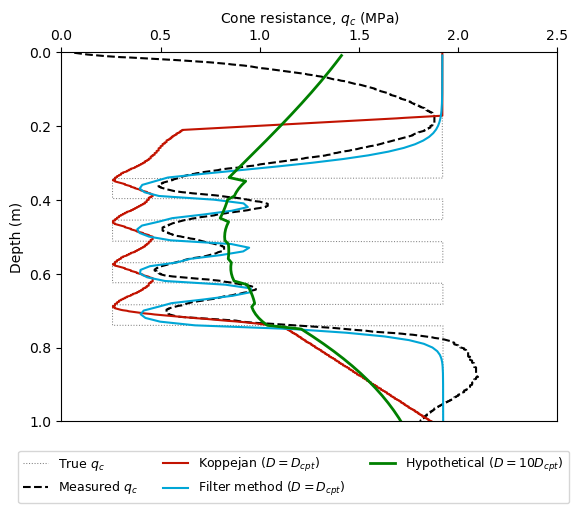
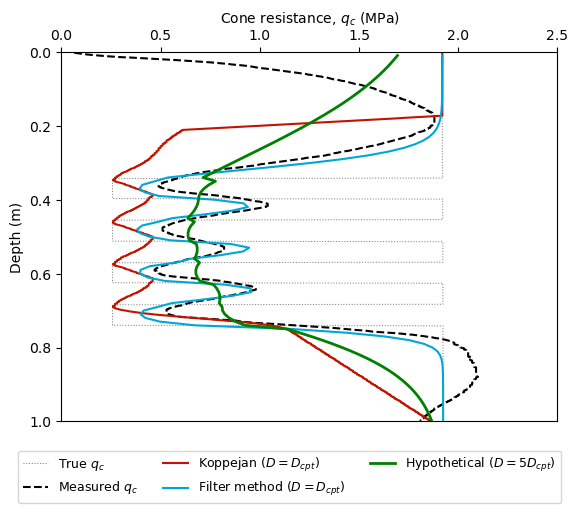
Built site for gh-pages

diff --git a/notes/4-2_mechanisms-sand.html b/notes/4-2_mechanisms-sand.html
@@ -752,50 +752,53 @@ Figure&nbsp;5: Calibration chamber set-up by <span class="citation" data-cites="
 <p>You can also check this with the code below. It also includes a hypothetical scenario of a penetrometer with a diameter of <code>5*d_cpt</code>, whilst also assuming that the filter method by <span class="citation" data-cites="deBoorderSW22">de Boorder, de Lange, and Gavin (<a href="#ref-deBoorderSW22" role="doc-biblioref">2022</a>)</span> is the ground truth.</p>
 <p>Since this hypothetical penetrometer is much larger than the original CPT, it can barely detect the individual contribution of each weak layer. Instead it virtually spatially averages the whole unit, sensing a cone resistance of just under 1 MPa.</p>
 <p>As an aside: since the stress conditions in a calibration chamber are much different to real-life conditions, the measured cone resistance are also not “typical” cone resistances.</p>
-<div id="b0e2f8a1-69b1-484e-93c6-840f4f954e3f" class="cell" data-tags="[]" data-execution_count="5">
+<div id="b0e2f8a1-69b1-484e-93c6-840f4f954e3f" class="cell" data-tags="[]" data-execution_count="2">
 <details class="code-fold">
 <summary>Show the code</summary>
 <div class="sourceCode cell-code" id="cb1"><pre class="sourceCode python code-with-copy"><code class="sourceCode python"><span id="cb1-1"><a href="#cb1-1" aria-hidden="true" tabindex="-1"></a><span class="im">import</span> pandas <span class="im">as</span> pd, numpy <span class="im">as</span> np</span>
 <span id="cb1-2"><a href="#cb1-2" aria-hidden="true" tabindex="-1"></a><span class="im">import</span> matplotlib.pyplot <span class="im">as</span> plt</span>
 <span id="cb1-3"><a href="#cb1-3" aria-hidden="true" tabindex="-1"></a><span class="im">import</span> sys</span>
-<span id="cb1-4"><a href="#cb1-4" aria-hidden="true" tabindex="-1"></a>sys.path.append(<span class="st">".."</span>)</span>
-<span id="cb1-5"><a href="#cb1-5" aria-hidden="true" tabindex="-1"></a><span class="im">from</span> utils <span class="im">import</span> averaging_methods</span>
-<span id="cb1-6"><a href="#cb1-6" aria-hidden="true" tabindex="-1"></a></span>
-<span id="cb1-7"><a href="#cb1-7" aria-hidden="true" tabindex="-1"></a>fig <span class="op">=</span> plt.figure()</span>
-<span id="cb1-8"><a href="#cb1-8" aria-hidden="true" tabindex="-1"></a>ax <span class="op">=</span> fig.gca()</span>
+<span id="cb1-4"><a href="#cb1-4" aria-hidden="true" tabindex="-1"></a></span>
+<span id="cb1-5"><a href="#cb1-5" aria-hidden="true" tabindex="-1"></a><span class="co"># sys.path.append("..")</span></span>
+<span id="cb1-6"><a href="#cb1-6" aria-hidden="true" tabindex="-1"></a><span class="co"># !pip install git+https://github.com/triaduct/offshoregeotechnics.git@main # Use this code to add offshoregeotechnics to your Python library </span></span>
+<span id="cb1-7"><a href="#cb1-7" aria-hidden="true" tabindex="-1"></a></span>
+<span id="cb1-8"><a href="#cb1-8" aria-hidden="true" tabindex="-1"></a><span class="im">from</span> utils <span class="im">import</span> averaging_methods</span>
 <span id="cb1-9"><a href="#cb1-9" aria-hidden="true" tabindex="-1"></a></span>
-<span id="cb1-10"><a href="#cb1-10" aria-hidden="true" tabindex="-1"></a><span class="co"># Measurements from calibration chamber as well as existing calcs (to reduce computational time) are stored in calib-chamber.csv</span></span>
-<span id="cb1-11"><a href="#cb1-11" aria-hidden="true" tabindex="-1"></a>cpt <span class="op">=</span> pd.read_csv(<span class="st">"data/calib-chamber.csv"</span>)</span>
-<span id="cb1-12"><a href="#cb1-12" aria-hidden="true" tabindex="-1"></a>d_cpt <span class="op">=</span> <span class="fl">36E-3</span> <span class="co"># Original diameter of the CPT cone = 36mm</span></span>
-<span id="cb1-13"><a href="#cb1-13" aria-hidden="true" tabindex="-1"></a>ax.plot(cpt.qc,cpt.z<span class="op">*-</span><span class="dv">1</span>,label<span class="op">=</span><span class="st">"True $q_c$"</span>,lw<span class="op">=</span><span class="fl">0.75</span>,c<span class="op">=</span><span class="st">"gray"</span>,ls<span class="op">=</span><span class="st">":"</span>)       <span class="co"># True qc value if layer was infinitely thick</span></span>
-<span id="cb1-14"><a href="#cb1-14" aria-hidden="true" tabindex="-1"></a>ax.plot(cpt.qc_meas,cpt.z_meas<span class="op">*-</span><span class="dv">1</span>,label<span class="op">=</span><span class="st">"Measured $q_c$"</span>,c<span class="op">=</span><span class="st">"k"</span>,ls<span class="op">=</span><span class="st">"--"</span>)   <span class="co"># Measured by a CPT with diameter D_cpt</span></span>
-<span id="cb1-15"><a href="#cb1-15" aria-hidden="true" tabindex="-1"></a>ax.plot(cpt.qc_koppejan,cpt.z_koppejan<span class="op">*-</span><span class="dv">1</span>,label<span class="op">=</span><span class="st">"Koppejan ($D=D_</span><span class="sc">{cpt}</span><span class="st">$)"</span>,c<span class="op">=</span><span class="st">"#C21301"</span>)  <span class="co"># Koppejan method (D = D_cpt)</span></span>
-<span id="cb1-16"><a href="#cb1-16" aria-hidden="true" tabindex="-1"></a>ax.plot(cpt.qc_filter,cpt.z_filter<span class="op">*-</span><span class="dv">1</span>,label<span class="op">=</span><span class="st">"Filter method ($D=D_</span><span class="sc">{cpt}</span><span class="st">$)"</span>,c<span class="op">=</span><span class="st">"#00A6D6"</span>) <span class="co"># Filter method by De Boorder, 2022 (D = D_cpt)</span></span>
-<span id="cb1-17"><a href="#cb1-17" aria-hidden="true" tabindex="-1"></a></span>
-<span id="cb1-18"><a href="#cb1-18" aria-hidden="true" tabindex="-1"></a><span class="co"># ===============================</span></span>
-<span id="cb1-19"><a href="#cb1-19" aria-hidden="true" tabindex="-1"></a><span class="co"># Consider a hypothetical scenario, with a pile diameter X times the original CPT diameter</span></span>
-<span id="cb1-20"><a href="#cb1-20" aria-hidden="true" tabindex="-1"></a>X <span class="op">=</span> <span class="dv">5</span>  <span class="co"># Hypothetical diameter = X*d_cpt</span></span>
+<span id="cb1-10"><a href="#cb1-10" aria-hidden="true" tabindex="-1"></a>fig <span class="op">=</span> plt.figure()</span>
+<span id="cb1-11"><a href="#cb1-11" aria-hidden="true" tabindex="-1"></a>ax <span class="op">=</span> fig.gca()</span>
+<span id="cb1-12"><a href="#cb1-12" aria-hidden="true" tabindex="-1"></a></span>
+<span id="cb1-13"><a href="#cb1-13" aria-hidden="true" tabindex="-1"></a><span class="co"># Measurements from calibration chamber as well as existing calcs (to reduce computational time) are stored in calib-chamber.csv</span></span>
+<span id="cb1-14"><a href="#cb1-14" aria-hidden="true" tabindex="-1"></a>cpt <span class="op">=</span> pd.read_csv(<span class="st">"data/calib-chamber.csv"</span>)</span>
+<span id="cb1-15"><a href="#cb1-15" aria-hidden="true" tabindex="-1"></a>d_cpt <span class="op">=</span> <span class="fl">36E-3</span> <span class="co"># Original diameter of the CPT cone = 36mm</span></span>
+<span id="cb1-16"><a href="#cb1-16" aria-hidden="true" tabindex="-1"></a>ax.plot(cpt.qc,cpt.z<span class="op">*-</span><span class="dv">1</span>,label<span class="op">=</span><span class="st">"True $q_c$"</span>,lw<span class="op">=</span><span class="fl">0.75</span>,c<span class="op">=</span><span class="st">"gray"</span>,ls<span class="op">=</span><span class="st">":"</span>)       <span class="co"># True qc value if layer was infinitely thick</span></span>
+<span id="cb1-17"><a href="#cb1-17" aria-hidden="true" tabindex="-1"></a>ax.plot(cpt.qc_meas,cpt.z_meas<span class="op">*-</span><span class="dv">1</span>,label<span class="op">=</span><span class="st">"Measured $q_c$"</span>,c<span class="op">=</span><span class="st">"k"</span>,ls<span class="op">=</span><span class="st">"--"</span>)   <span class="co"># Measured by a CPT with diameter D_cpt</span></span>
+<span id="cb1-18"><a href="#cb1-18" aria-hidden="true" tabindex="-1"></a>ax.plot(cpt.qc_koppejan,cpt.z_koppejan<span class="op">*-</span><span class="dv">1</span>,label<span class="op">=</span><span class="st">"Koppejan ($D=D_</span><span class="sc">{cpt}</span><span class="st">$)"</span>,c<span class="op">=</span><span class="st">"#C21301"</span>)  <span class="co"># Koppejan method (D = D_cpt)</span></span>
+<span id="cb1-19"><a href="#cb1-19" aria-hidden="true" tabindex="-1"></a>ax.plot(cpt.qc_filter,cpt.z_filter<span class="op">*-</span><span class="dv">1</span>,label<span class="op">=</span><span class="st">"Filter method ($D=D_</span><span class="sc">{cpt}</span><span class="st">$)"</span>,c<span class="op">=</span><span class="st">"#00A6D6"</span>) <span class="co"># Filter method by De Boorder, 2022 (D = D_cpt)</span></span>
+<span id="cb1-20"><a href="#cb1-20" aria-hidden="true" tabindex="-1"></a></span>
 <span id="cb1-21"><a href="#cb1-21" aria-hidden="true" tabindex="-1"></a><span class="co"># ===============================</span></span>
-<span id="cb1-22"><a href="#cb1-22" aria-hidden="true" tabindex="-1"></a></span>
-<span id="cb1-23"><a href="#cb1-23" aria-hidden="true" tabindex="-1"></a><span class="co"># Arrays for storing data</span></span>
-<span id="cb1-24"><a href="#cb1-24" aria-hidden="true" tabindex="-1"></a>qc_avg_deb <span class="op">=</span> []</span>
-<span id="cb1-25"><a href="#cb1-25" aria-hidden="true" tabindex="-1"></a>z_lst <span class="op">=</span> []</span>
-<span id="cb1-26"><a href="#cb1-26" aria-hidden="true" tabindex="-1"></a><span class="cf">for</span> end_depth <span class="kw">in</span> np.arange(<span class="op">-</span><span class="fl">1.5</span>,<span class="dv">0</span>,<span class="fl">0.01</span>):    <span class="co"># Performing calculation at these depths</span></span>
-<span id="cb1-27"><a href="#cb1-27" aria-hidden="true" tabindex="-1"></a>    <span class="co"># qc_avg_deb.append(averaging_methods.lcpc(cpt, X*d_cpt, end_depth))   # Alternatively: feel free to consider the LCPC 1.5D method!</span></span>
-<span id="cb1-28"><a href="#cb1-28" aria-hidden="true" tabindex="-1"></a>    qc_avg_deb.append(averaging_methods.de_boorder(cpt, X<span class="op">*</span>d_cpt, end_depth))</span>
-<span id="cb1-29"><a href="#cb1-29" aria-hidden="true" tabindex="-1"></a>    z_lst.append(end_depth)</span>
-<span id="cb1-30"><a href="#cb1-30" aria-hidden="true" tabindex="-1"></a>ax.plot(qc_avg_deb,np.array(z_lst)<span class="op">*</span>(<span class="op">-</span><span class="dv">1</span>),label<span class="op">=</span><span class="ss">f"Hypothetical ($D=$"</span> <span class="op">+</span>  <span class="bu">str</span>(X) <span class="op">+</span> <span class="st">"$D_</span><span class="sc">{cpt}</span><span class="st">$)"</span>,c<span class="op">=</span><span class="st">"green"</span>,lw<span class="op">=</span><span class="dv">2</span>)</span>
-<span id="cb1-31"><a href="#cb1-31" aria-hidden="true" tabindex="-1"></a></span>
-<span id="cb1-32"><a href="#cb1-32" aria-hidden="true" tabindex="-1"></a><span class="co"># Other plot settings</span></span>
-<span id="cb1-33"><a href="#cb1-33" aria-hidden="true" tabindex="-1"></a>ax.set_xlabel(<span class="st">"Cone resistance, $q_c$ (MPa)"</span>)</span>
-<span id="cb1-34"><a href="#cb1-34" aria-hidden="true" tabindex="-1"></a>ax.set_ylabel(<span class="st">"Depth (m)"</span>)</span>
-<span id="cb1-35"><a href="#cb1-35" aria-hidden="true" tabindex="-1"></a>ax.legend(fontsize<span class="op">=</span><span class="dv">9</span>,ncol<span class="op">=</span><span class="dv">3</span>,loc<span class="op">=</span><span class="st">"center left"</span>,bbox_to_anchor<span class="op">=</span>(<span class="op">-</span><span class="fl">0.1</span>,<span class="op">-</span><span class="fl">0.15</span>))</span>
-<span id="cb1-36"><a href="#cb1-36" aria-hidden="true" tabindex="-1"></a>ax.set_xlim(<span class="dv">0</span>,<span class="fl">2.5</span>)</span>
-<span id="cb1-37"><a href="#cb1-37" aria-hidden="true" tabindex="-1"></a>ax.set_ylim(<span class="dv">0</span>,<span class="dv">1</span>)</span>
-<span id="cb1-38"><a href="#cb1-38" aria-hidden="true" tabindex="-1"></a>ax.tick_params(labelbottom<span class="op">=</span><span class="va">False</span>,labeltop<span class="op">=</span><span class="va">True</span>)</span>
-<span id="cb1-39"><a href="#cb1-39" aria-hidden="true" tabindex="-1"></a>ax.xaxis.set_label_position(<span class="st">'top'</span>)</span>
-<span id="cb1-40"><a href="#cb1-40" aria-hidden="true" tabindex="-1"></a>ax.xaxis.set_ticks_position(<span class="st">'top'</span>)</span>
-<span id="cb1-41"><a href="#cb1-41" aria-hidden="true" tabindex="-1"></a>ax.invert_yaxis()</span></code><button title="Copy to Clipboard" class="code-copy-button"><i class="bi"></i></button></pre></div>
+<span id="cb1-22"><a href="#cb1-22" aria-hidden="true" tabindex="-1"></a><span class="co"># Consider a hypothetical scenario, with a pile diameter X times the original CPT diameter</span></span>
+<span id="cb1-23"><a href="#cb1-23" aria-hidden="true" tabindex="-1"></a>X <span class="op">=</span> <span class="dv">5</span>  <span class="co"># Hypothetical diameter = X*d_cpt</span></span>
+<span id="cb1-24"><a href="#cb1-24" aria-hidden="true" tabindex="-1"></a><span class="co"># ===============================</span></span>
+<span id="cb1-25"><a href="#cb1-25" aria-hidden="true" tabindex="-1"></a></span>
+<span id="cb1-26"><a href="#cb1-26" aria-hidden="true" tabindex="-1"></a><span class="co"># Arrays for storing data</span></span>
+<span id="cb1-27"><a href="#cb1-27" aria-hidden="true" tabindex="-1"></a>qc_avg_deb <span class="op">=</span> []</span>
+<span id="cb1-28"><a href="#cb1-28" aria-hidden="true" tabindex="-1"></a>z_lst <span class="op">=</span> []</span>
+<span id="cb1-29"><a href="#cb1-29" aria-hidden="true" tabindex="-1"></a><span class="cf">for</span> end_depth <span class="kw">in</span> np.arange(<span class="op">-</span><span class="fl">1.5</span>,<span class="dv">0</span>,<span class="fl">0.01</span>):    <span class="co"># Performing calculation at these depths</span></span>
+<span id="cb1-30"><a href="#cb1-30" aria-hidden="true" tabindex="-1"></a>    <span class="co"># qc_avg_deb.append(averaging_methods.lcpc(cpt, X*d_cpt, end_depth))   # Alternatively: feel free to consider the LCPC 1.5D method!</span></span>
+<span id="cb1-31"><a href="#cb1-31" aria-hidden="true" tabindex="-1"></a>    qc_avg_deb.append(averaging_methods.de_boorder(cpt, X<span class="op">*</span>d_cpt, end_depth))</span>
+<span id="cb1-32"><a href="#cb1-32" aria-hidden="true" tabindex="-1"></a>    z_lst.append(end_depth)</span>
+<span id="cb1-33"><a href="#cb1-33" aria-hidden="true" tabindex="-1"></a>ax.plot(qc_avg_deb,np.array(z_lst)<span class="op">*</span>(<span class="op">-</span><span class="dv">1</span>),label<span class="op">=</span><span class="ss">f"Hypothetical ($D=$"</span> <span class="op">+</span>  <span class="bu">str</span>(X) <span class="op">+</span> <span class="st">"$D_</span><span class="sc">{cpt}</span><span class="st">$)"</span>,c<span class="op">=</span><span class="st">"green"</span>,lw<span class="op">=</span><span class="dv">2</span>)</span>
+<span id="cb1-34"><a href="#cb1-34" aria-hidden="true" tabindex="-1"></a></span>
+<span id="cb1-35"><a href="#cb1-35" aria-hidden="true" tabindex="-1"></a><span class="co"># Other plot settings</span></span>
+<span id="cb1-36"><a href="#cb1-36" aria-hidden="true" tabindex="-1"></a>ax.set_xlabel(<span class="st">"Cone resistance, $q_c$ (MPa)"</span>)</span>
+<span id="cb1-37"><a href="#cb1-37" aria-hidden="true" tabindex="-1"></a>ax.set_ylabel(<span class="st">"Depth (m)"</span>)</span>
+<span id="cb1-38"><a href="#cb1-38" aria-hidden="true" tabindex="-1"></a>ax.legend(fontsize<span class="op">=</span><span class="dv">9</span>,ncol<span class="op">=</span><span class="dv">3</span>,loc<span class="op">=</span><span class="st">"center left"</span>,bbox_to_anchor<span class="op">=</span>(<span class="op">-</span><span class="fl">0.1</span>,<span class="op">-</span><span class="fl">0.15</span>))</span>
+<span id="cb1-39"><a href="#cb1-39" aria-hidden="true" tabindex="-1"></a>ax.set_xlim(<span class="dv">0</span>,<span class="fl">2.5</span>)</span>
+<span id="cb1-40"><a href="#cb1-40" aria-hidden="true" tabindex="-1"></a>ax.set_ylim(<span class="dv">0</span>,<span class="dv">1</span>)</span>
+<span id="cb1-41"><a href="#cb1-41" aria-hidden="true" tabindex="-1"></a>ax.tick_params(labelbottom<span class="op">=</span><span class="va">False</span>,labeltop<span class="op">=</span><span class="va">True</span>)</span>
+<span id="cb1-42"><a href="#cb1-42" aria-hidden="true" tabindex="-1"></a>ax.xaxis.set_label_position(<span class="st">'top'</span>)</span>
+<span id="cb1-43"><a href="#cb1-43" aria-hidden="true" tabindex="-1"></a>ax.xaxis.set_ticks_position(<span class="st">'top'</span>)</span>
+<span id="cb1-44"><a href="#cb1-44" aria-hidden="true" tabindex="-1"></a>ax.invert_yaxis()</span></code><button title="Copy to Clipboard" class="code-copy-button"><i class="bi"></i></button></pre></div>
 </details>
 <div class="cell-output cell-output-display">
 <div>
